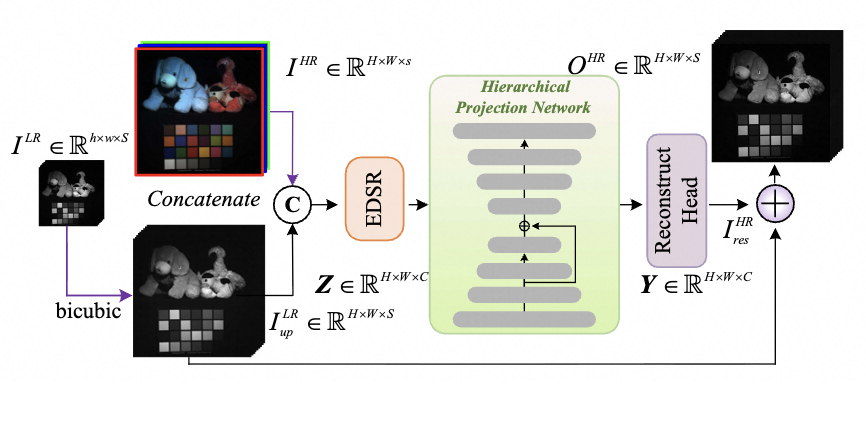
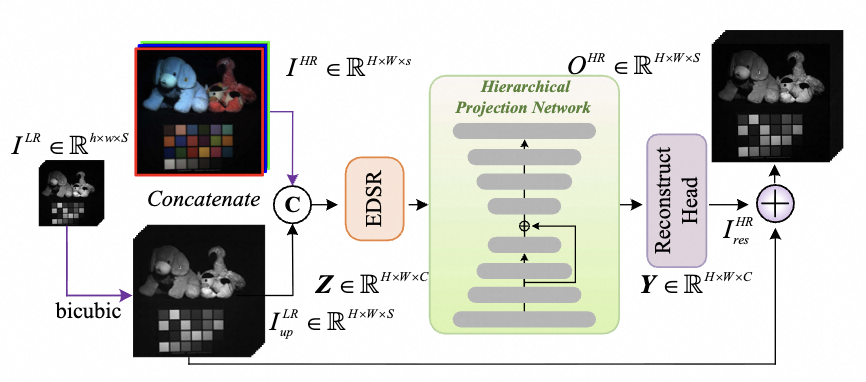
Fix LSO figure framing

diff --git a/latent-spectral-operators/index.html b/latent-spectral-operators/index.html
@@ -189,6 +189,16 @@
     padding: 18px;
   }
   .figure img { border-radius: 8px; }
+  .paper-figure {
+    background: transparent;
+    border: 0;
+    padding: 0;
+  }
+  .paper-figure img {
+    background: #fff;
+    border-radius: 6px;
+    width: 100%;
+  }
   .caption { color: var(--text-3); font-size: 13px; margin-top: 12px; text-align: center; font-style: italic; }
 
   .stat-panels {
@@ -484,7 +494,7 @@
         fusion mapping.
       </p>
     </div>
-    <div class="figure">
+    <div class="figure paper-figure">
       <img src="assets/overall.png" alt="Overall LSO framework: cross-attention projection with spectral prompts feeds a hierarchical patch-based backbone and a trigonometric basis solver." />
       <div class="caption">Overall design of Latent Spectral Operator.</div>
     </div>
@@ -521,7 +531,7 @@
         fused HSI.
       </p>
     </div>
-    <div class="figure">
+    <div class="figure paper-figure">
       <img src="assets/pipeline.png" alt="Hierarchical Projection Network: detailed CoordToLatent, Solve, and LatentToCoord blocks." />
       <div class="caption">Overall design of the Hierarchical Projection Network.</div>
     </div>
